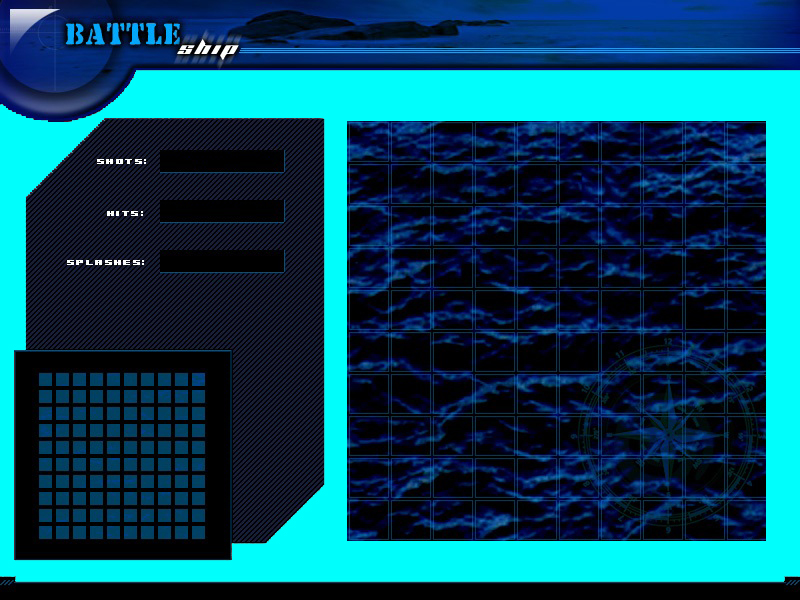
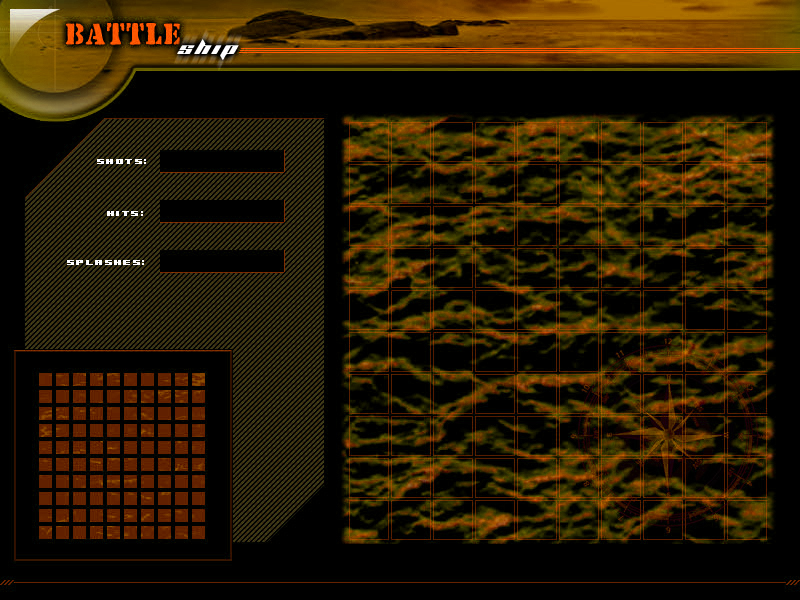
Add hotkey to Change Ship Button Update Background Colour

diff --git a/src/DeploymentController.cs b/src/DeploymentController.cs
@@ -46,57 +46,57 @@ static class DeploymentController
 	/// of the ships to add, randomising deployment, end then ending
 	/// deployment
 	/// </remarks>
-	public static void HandleDeploymentInput()
-	{
-		if (SwinGame.KeyTyped(KeyCode.vk_ESCAPE)) {
-			GameController.AddNewState(GameState.ViewingGameMenu);
+public static void HandleDeploymentInput ()
+{
+	if (SwinGame.KeyTyped (KeyCode.vk_ESCAPE)) {
+		GameController.AddNewState (GameState.ViewingGameMenu);
+	}
+
+	if (SwinGame.KeyTyped (KeyCode.vk_UP) | SwinGame.KeyTyped (KeyCode.vk_DOWN)) {
+		_currentDirection = Direction.UpDown;
+	}
+	if (SwinGame.KeyTyped (KeyCode.vk_LEFT) | SwinGame.KeyTyped (KeyCode.vk_RIGHT)) {
+		_currentDirection = Direction.LeftRight;
+	}
+
+	if (SwinGame.KeyTyped (KeyCode.vk_r)) {
+		GameController.HumanPlayer.RandomizeDeployment ();
+	}
+	if (SwinGame.KeyTyped (KeyCode.vk_b)) {
+		UtilityFunctions.ChangeBackground ();
+	}
+	if (SwinGame.KeyTyped (KeyCode.vk_s)) {
+		if (GameController.HumanPlayer.Ship (_selectedShip).CurrentShipColour == ShipColour.Blue)
+			GameController.HumanPlayer.Ship (_selectedShip).CurrentShipColour = ShipColour.Red;
+		else
+			GameController.HumanPlayer.Ship (_selectedShip).CurrentShipColour = ShipColour.Blue;
+	}
+
+	if (SwinGame.MouseClicked (MouseButton.LeftButton)) {
+		ShipName selected = default (ShipName);
+		selected = GetShipMouseIsOver ();
+		if (selected != ShipName.None) {
+			_selectedShip = selected;
+		} else {
+			DoDeployClick ();
 		}
 
-		if (SwinGame.KeyTyped(KeyCode.vk_UP) | SwinGame.KeyTyped(KeyCode.vk_DOWN)) {
+		if (GameController.HumanPlayer.ReadyToDeploy & UtilityFunctions.IsMouseInRectangle (PLAY_BUTTON_LEFT, TOP_BUTTONS_TOP, PLAY_BUTTON_WIDTH, TOP_BUTTONS_HEIGHT)) {
+			GameController.EndDeployment ();
+		} else if (UtilityFunctions.IsMouseInRectangle (UP_DOWN_BUTTON_LEFT, TOP_BUTTONS_TOP, DIR_BUTTONS_WIDTH, TOP_BUTTONS_HEIGHT)) {
 			_currentDirection = Direction.UpDown;
-		}
-		if (SwinGame.KeyTyped(KeyCode.vk_LEFT) | SwinGame.KeyTyped(KeyCode.vk_RIGHT)) {
+		} else if (UtilityFunctions.IsMouseInRectangle (LEFT_RIGHT_BUTTON_LEFT, TOP_BUTTONS_TOP, DIR_BUTTONS_WIDTH, TOP_BUTTONS_HEIGHT)) {
 			_currentDirection = Direction.LeftRight;
-		}
-
-		if (SwinGame.KeyTyped(KeyCode.vk_r)) {
-			GameController.HumanPlayer.RandomizeDeployment();
-		}
-
-		if (SwinGame.MouseClicked(MouseButton.LeftButton)) {
-			ShipName selected = default(ShipName);
-			selected = GetShipMouseIsOver();
-			if (selected != ShipName.None) {
-				_selectedShip = selected;
-			} else {
-				DoDeployClick();
-			}
-
-			if (GameController.HumanPlayer.ReadyToDeploy & UtilityFunctions.IsMouseInRectangle (PLAY_BUTTON_LEFT, TOP_BUTTONS_TOP, PLAY_BUTTON_WIDTH, TOP_BUTTONS_HEIGHT))
-				{
-					GameController.EndDeployment ();
-				}
-				else if (UtilityFunctions.IsMouseInRectangle (UP_DOWN_BUTTON_LEFT, TOP_BUTTONS_TOP, DIR_BUTTONS_WIDTH, TOP_BUTTONS_HEIGHT))
-				{
-					_currentDirection = Direction.UpDown;
-				}
-				else if (UtilityFunctions.IsMouseInRectangle (LEFT_RIGHT_BUTTON_LEFT, TOP_BUTTONS_TOP, DIR_BUTTONS_WIDTH, TOP_BUTTONS_HEIGHT))
-				{
-					_currentDirection = Direction.LeftRight;
-				}
-				else if (UtilityFunctions.IsMouseInRectangle (RANDOM_BUTTON_LEFT, TOP_BUTTONS_TOP, RANDOM_BUTTON_WIDTH, TOP_BUTTONS_HEIGHT))
-				{
-					GameController.HumanPlayer.RandomizeDeployment ();
-				}
-				else if (UtilityFunctions.IsMouseInRectangle (PAINT_BUTTON_LEFT, TOP_BUTTONS_TOP, RANDOM_BUTTON_WIDTH, TOP_BUTTONS_HEIGHT))
-				{
-						if (GameController.HumanPlayer.Ship (_selectedShip).CurrentShipColour == ShipColour.Blue)
-							GameController.HumanPlayer.Ship (_selectedShip).CurrentShipColour = ShipColour.Red;
-						else
-							GameController.HumanPlayer.Ship (_selectedShip).CurrentShipColour = ShipColour.Blue;
-				}
+		} else if (UtilityFunctions.IsMouseInRectangle (RANDOM_BUTTON_LEFT, TOP_BUTTONS_TOP, RANDOM_BUTTON_WIDTH, TOP_BUTTONS_HEIGHT)) {
+			GameController.HumanPlayer.RandomizeDeployment ();
+		} else if (UtilityFunctions.IsMouseInRectangle (PAINT_BUTTON_LEFT, TOP_BUTTONS_TOP, RANDOM_BUTTON_WIDTH, TOP_BUTTONS_HEIGHT)) {
+			if (GameController.HumanPlayer.Ship (_selectedShip).CurrentShipColour == ShipColour.Blue)
+				GameController.HumanPlayer.Ship (_selectedShip).CurrentShipColour = ShipColour.Red;
+			else
+				GameController.HumanPlayer.Ship (_selectedShip).CurrentShipColour = ShipColour.Blue;
 		}
 	}
+}
 
 	/// <summary>
 	/// The user has clicked somewhere on the screen, check if its is a deployment and deploy
